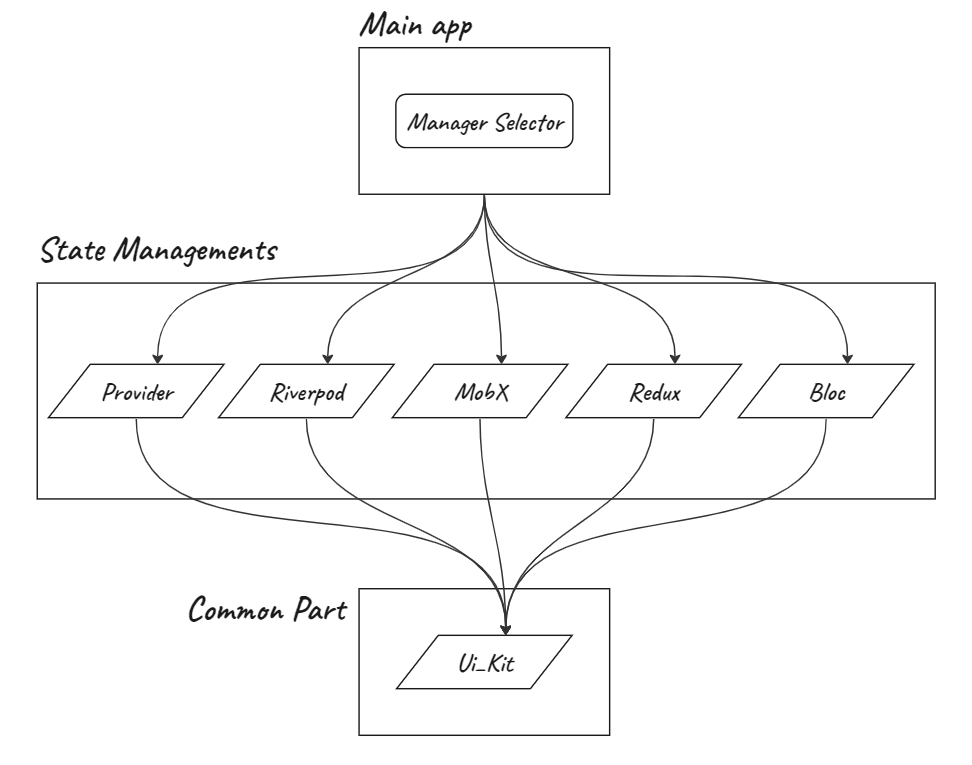
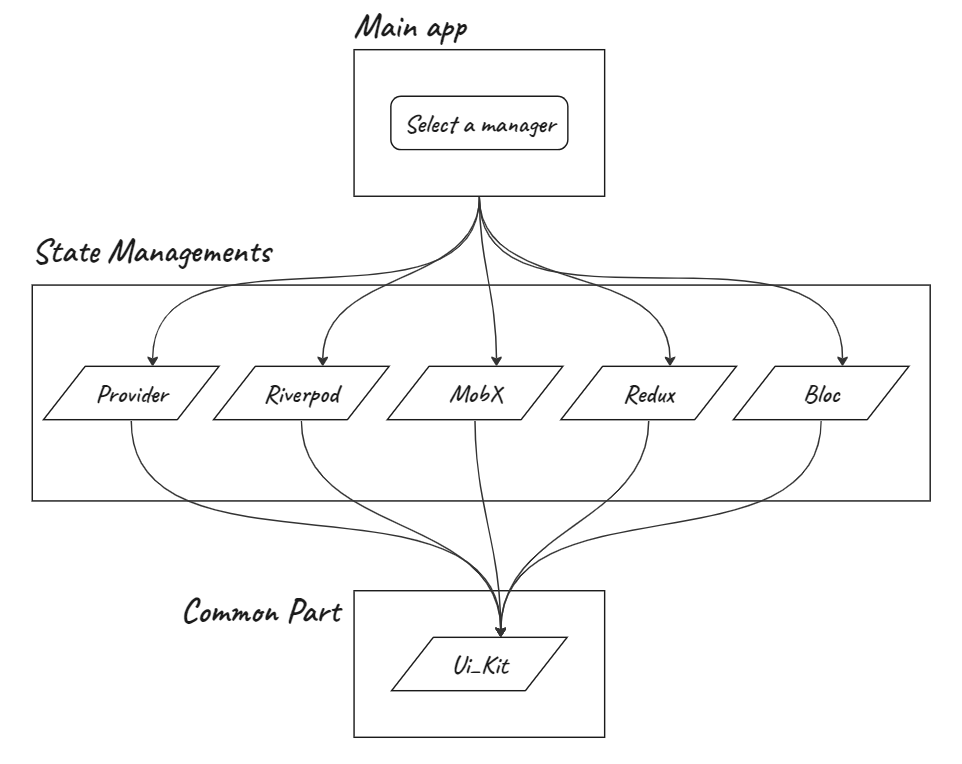
Change to more appropriate scheme

diff --git a/README.md b/README.md
@@ -1,6 +1,6 @@
 # State Management Exploration App
 
-This is the example for anyone that want to create Flutter mobile application using Provider, Riverpod, MobX, Redux or Bloc. 
+This is the example for anyone who wants to create Flutter mobile application using Provider, Riverpod, MobX, Redux or Bloc. 
 
 
 # Scheme
@@ -8,7 +8,6 @@ This is the example for anyone that want to create Flutter mobile application us
 This is a representation of how it works technically.
 
 ![](assets/state_managements_scheme.png)
-
 
 # Technology Stack
 
